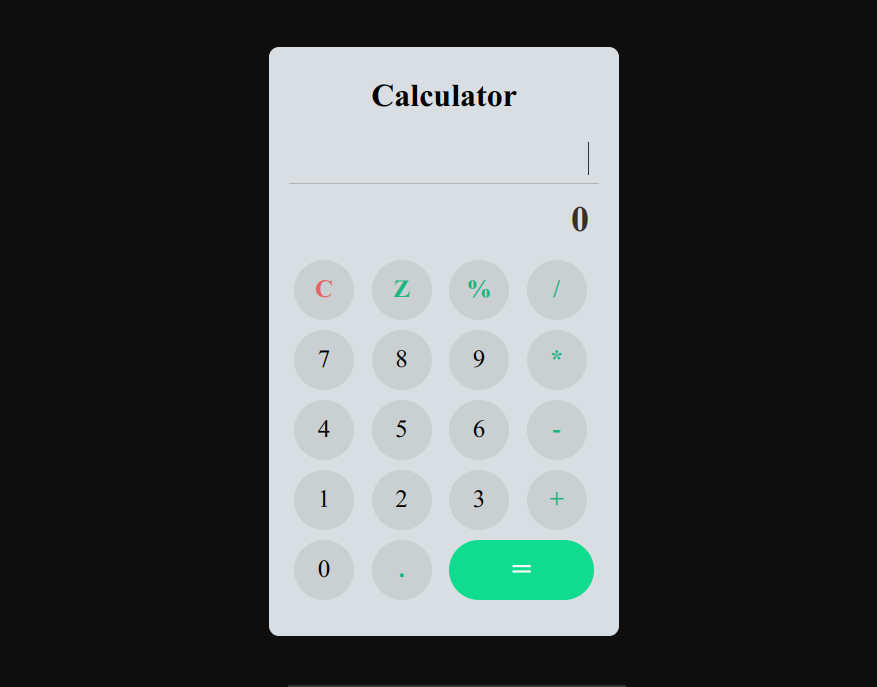
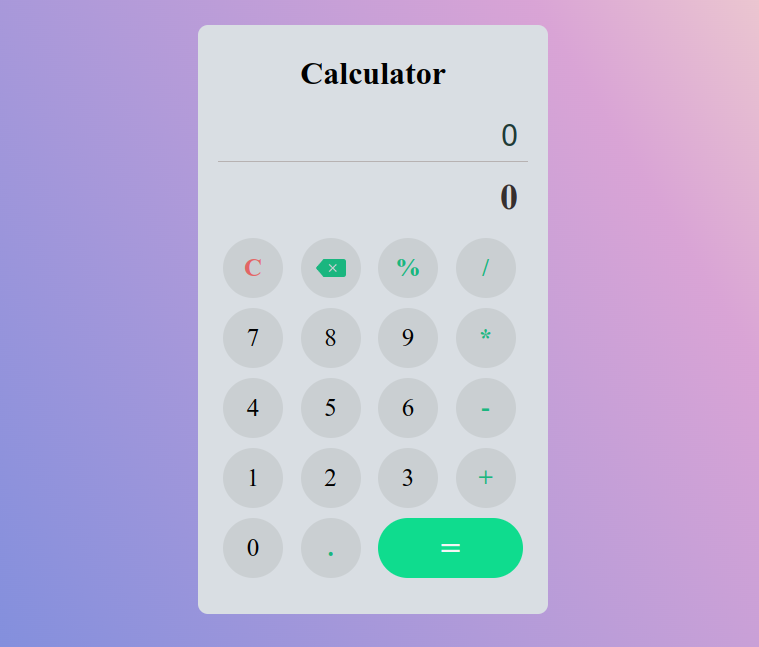
updated background of body and readme file

diff --git a/index.html b/index.html
@@ -15,7 +15,7 @@
         <div class="in-out-container">
             <!-- Input Section -->
             <div class="input">
-                <input type="text" name="input" value="" id="input">
+                <input type="text" name="input" value="0" id="input">
             </div>
 
             <!-- Output Section -->

diff --git a/style.css b/style.css
@@ -8,7 +8,7 @@ html{
     font-size: 62.5%;
 }
 body{
-    background-color: #0f0e0e;
+    background: linear-gradient(58.2deg, rgba(40,91,212,0.73) -3%, rgba(171,53,163,0.45) 70.3%, rgba(255,204,112,0.37) 97.7%);
     max-width: 100vw;
     height: 100vh;
     display: flex;
